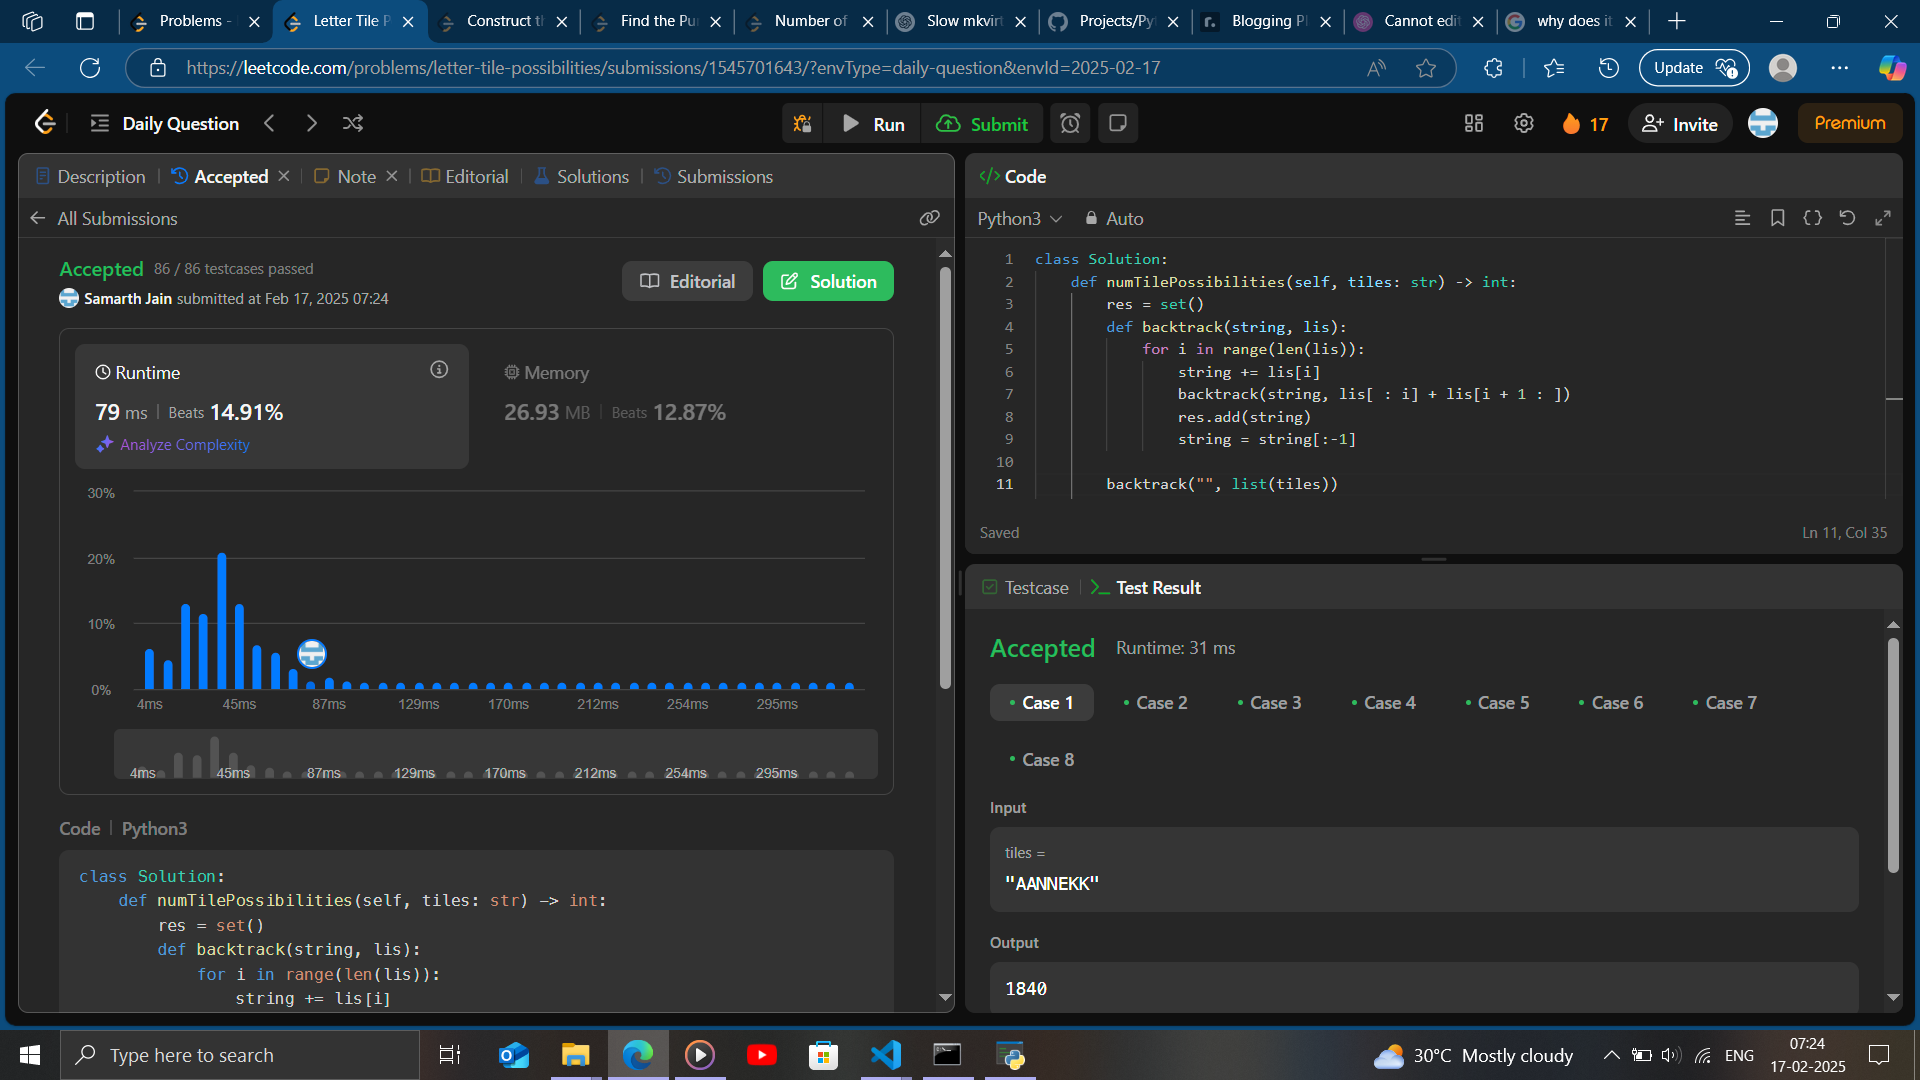
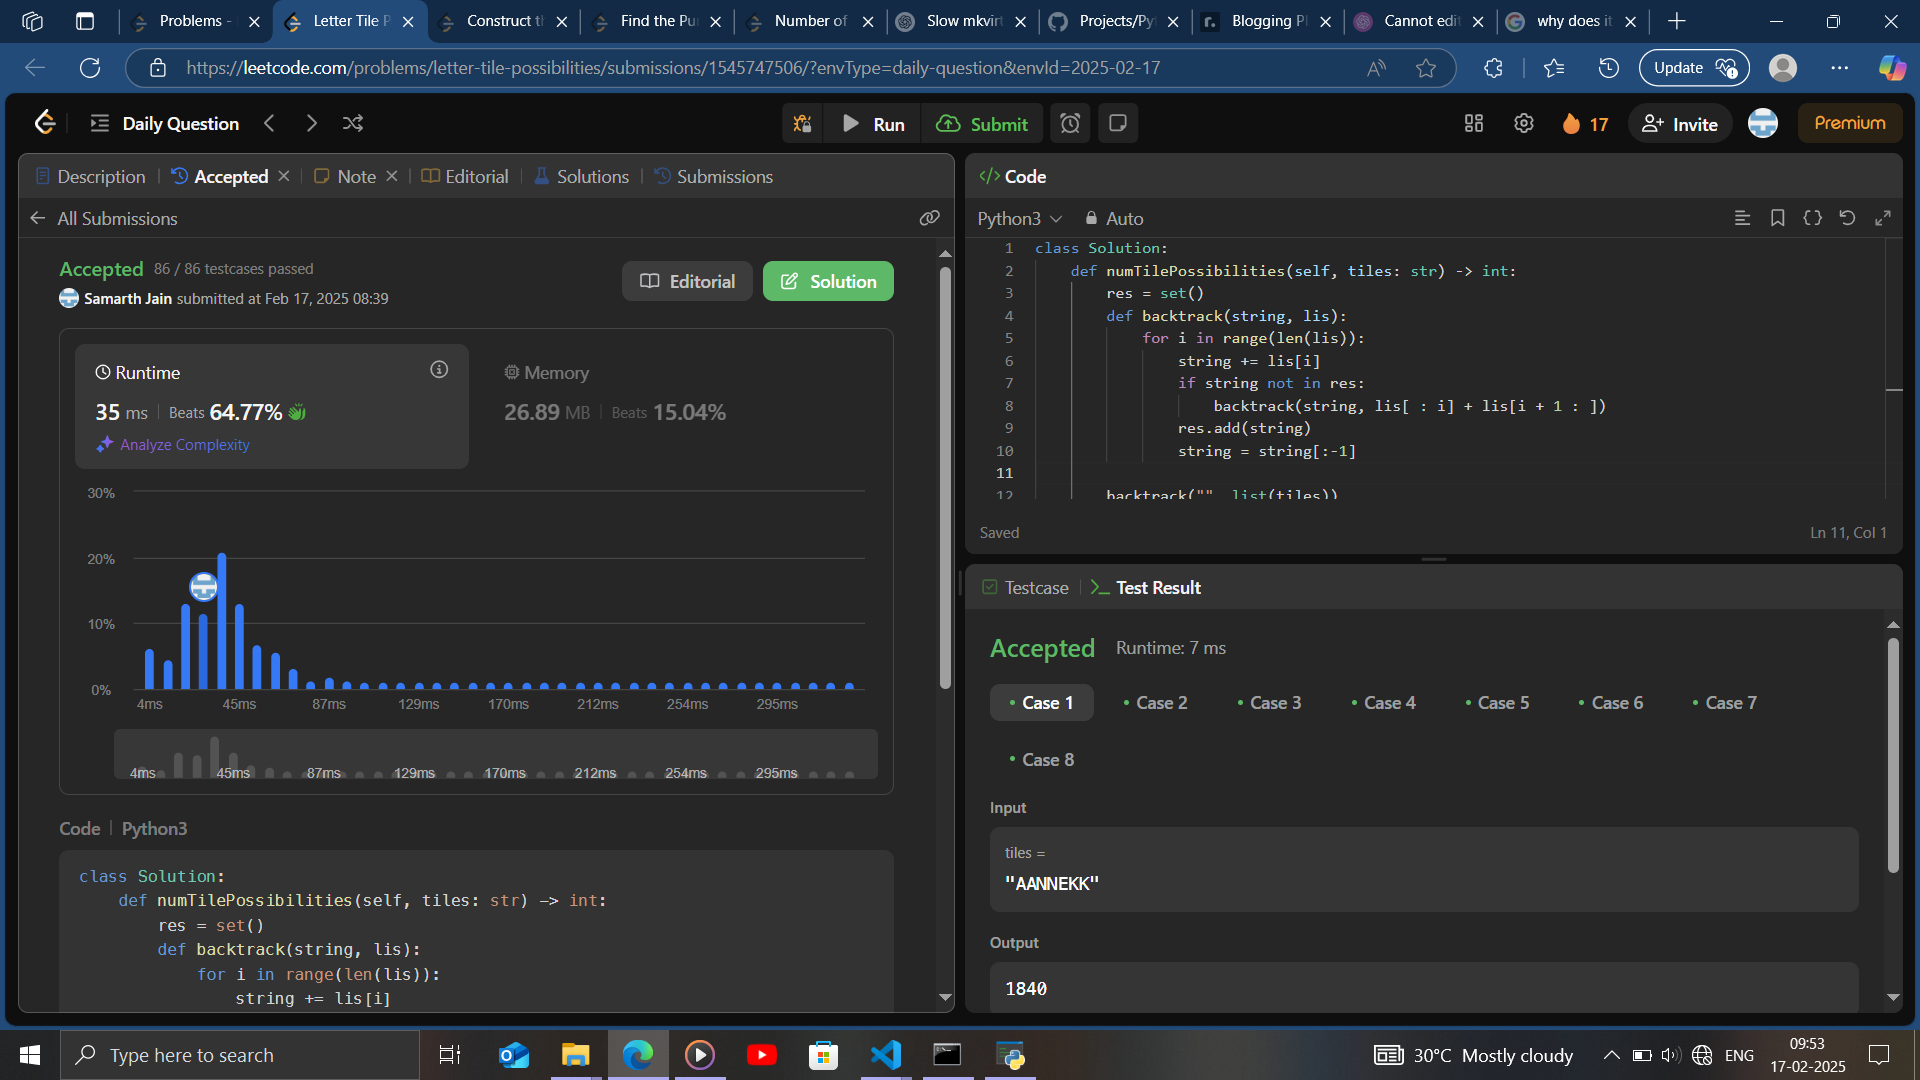
Leetcode-Solutions

diff --git a/Medium/[1079] Letter Tile Possibilities/[1079] Letter Tile Possibilities.py b/Medium/[1079] Letter Tile Possibilities/[1079] Letter Tile Possibilities.py
@@ -1,8 +1,8 @@
 """
 Accepted
 1079 [Medium]
-Runtime: 79 ms, faster than 14.91% of Python3 online submissions for Letter Tile Possibilities.
-Memory Usage:  26.93 MB, less than 12.87% of Python3 online submissions for Letter Tile Possibilities.
+Runtime: 35 ms, faster than 64.77% of Python3 online submissions for Letter Tile Possibilities.
+Memory Usage:  26.89 MB, less than 15.04% of Python3 online submissions for Letter Tile Possibilities.
 """
 class Solution:
     def numTilePossibilities(self, tiles: str) -> int:
@@ -10,7 +10,8 @@ class Solution:
         def backtrack(string, lis):
             for i in range(len(lis)):
                 string += lis[i]
-                backtrack(string, lis[ : i] + lis[i + 1 : ])
+                if string not in res:
+                    backtrack(string, lis[ : i] + lis[i + 1 : ])
                 res.add(string)
                 string = string[:-1]
 
